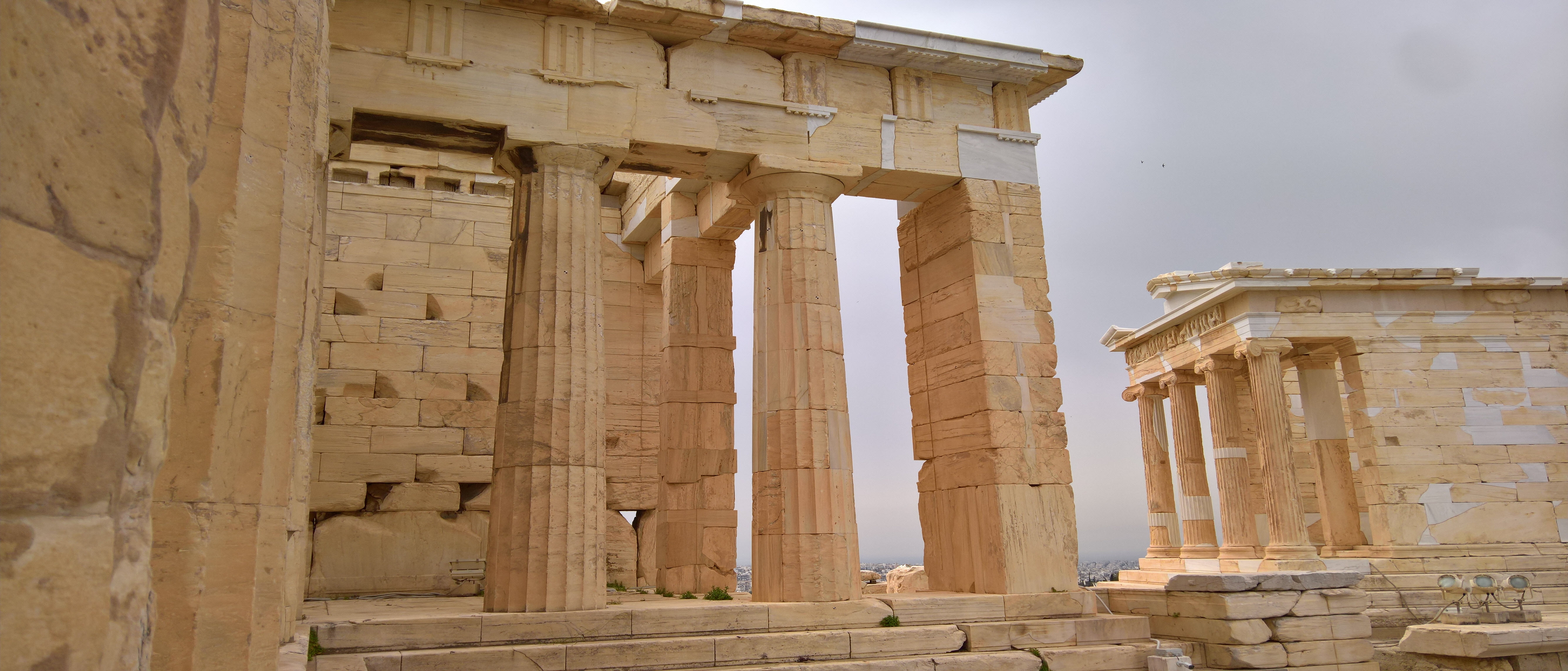
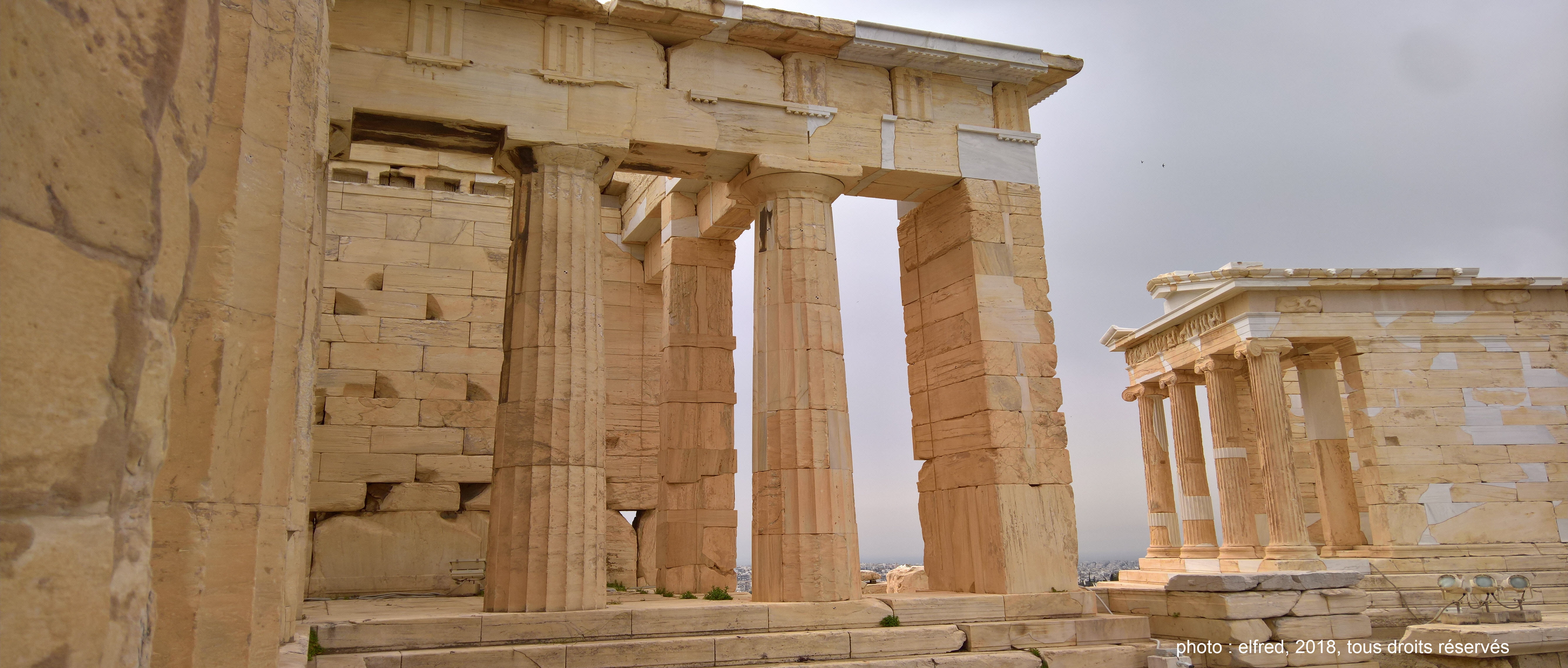
MAJ lien profil twitter et copyright photo

diff --git a/index.html b/index.html
@@ -112,7 +112,7 @@
 								</form>
 								<ul class="icons">
 									<li><a href="https://www.linkedin.com/in/frédéric-forestier-90a851b1" class="icon fa-linkedin"><span class="label">LinkedIn</span></a></li>
-									<li><a href="#" class="icon fa-twitter"><span class="label">Twitter</span></a></li>
+									<li><a href="https://twitter.com/Fred_UNIRES" class="icon fa-twitter"><span class="label">Twitter</span></a></li>
 									<li><a href="#" class="icon fa-github"><span class="label">Github</span></a></li>
 									
 								</ul>
